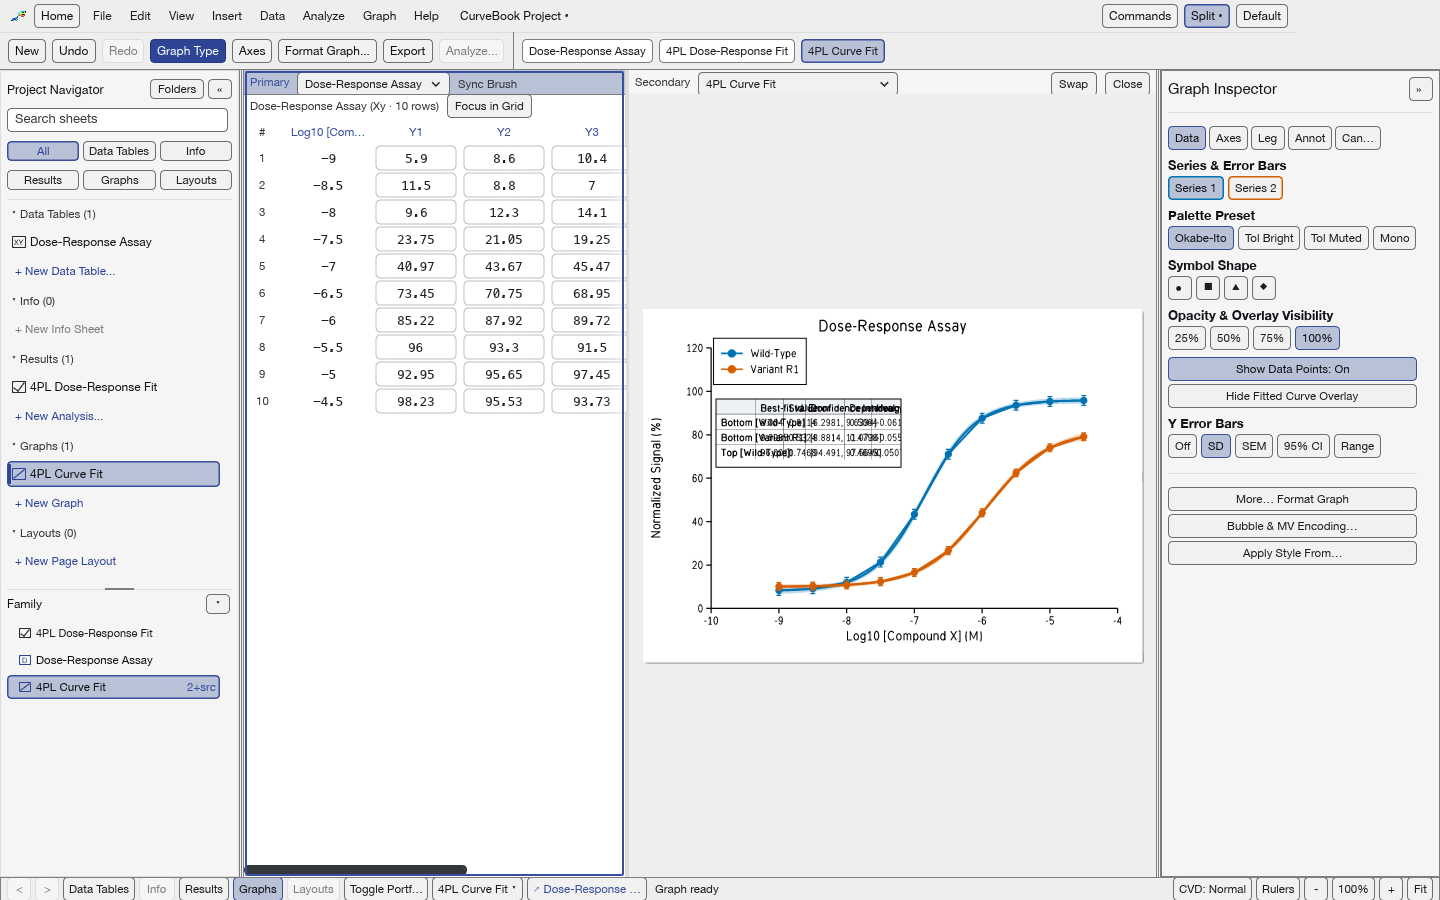
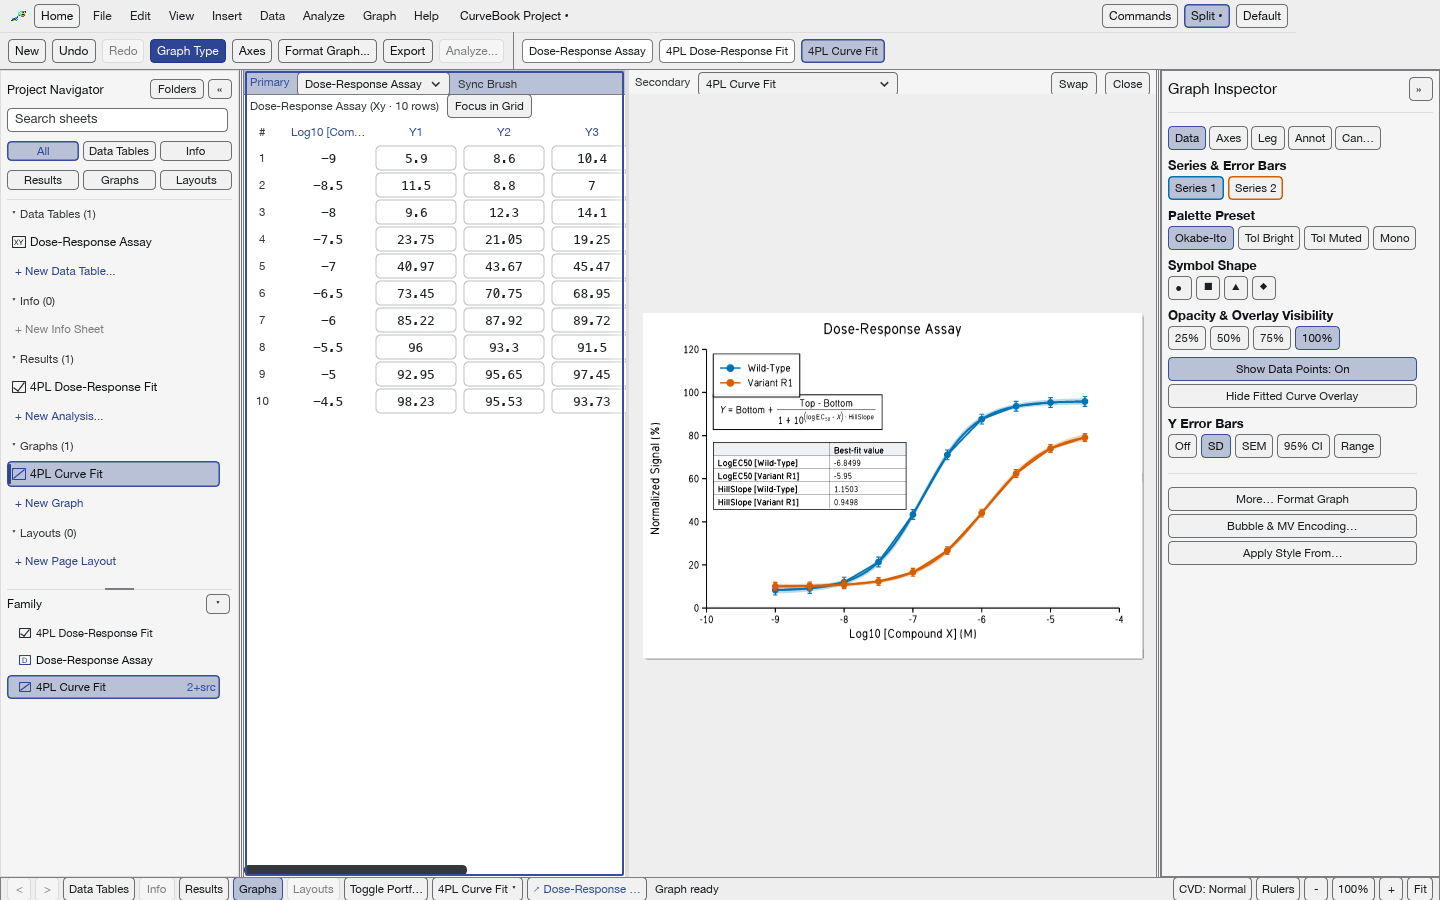
Fix split-fit table overlap and add ANOVA workspace screenshot

diff --git a/crates/ui-egui/examples/doc_screenshots.rs b/crates/ui-egui/examples/doc_screenshots.rs
@@ -4,10 +4,13 @@
 //! Clean-room deterministic workspace screenshot generator (`R0.14`).
 //!
 //! Renders `workspace-split-fit.png` (Light theme Split Workspace with XY dose-response
-//! data, 4PL nonlinear fit + 95% confidence band ribbon + SD error bars + embedded analysis
-//! result table) and `workspace-layout-dark.png` (Dark theme multi-panel `LayoutSheet`
-//! with linked panels `A` and `B`, physical millimeter rulers, visual scale bar, and
-//! page-layout inspector) into `<out_dir>`.
+//! data, 4PL nonlinear fit, 95% confidence band ribbon, SD error bars, live TeX model
+//! equation, and 2-column parameter slice), `workspace-layout-dark.png` (Dark theme
+//! multi-panel `LayoutSheet` with linked panels `A` and `B`, physical millimeter rulers,
+//! visual scale bar, and page-layout inspector), and `workspace-anova-results.png`
+//! (Light theme Split Workspace with multi-tab One-Way ANOVA `ResultSheet`, `QOL-7`
+//! diagnostic banner, and linked Column graph with Compact Letter Display and brackets)
+//! into `<out_dir>`.
 
 use std::error::Error;
 use std::fs;
@@ -32,6 +35,9 @@ fn main() -> Result<(), Box<dyn Error>> {
 
     let layout_png = build_layout_dark_png()?;
     write_png(&out_dir.join("workspace-layout-dark.png"), &layout_png)?;
+
+    let anova_png = build_anova_results_png()?;
+    write_png(&out_dir.join("workspace-anova-results.png"), &anova_png)?;
 
     let target = RenderTargetSpec { width_px: WIDTH_PX, height_px: HEIGHT_PX, dpi: DPI };
     for (mode, file_name) in [
@@ -125,7 +131,7 @@ fn style_dose_graph(app: &mut UiApp, graph_id: &str, result_id: &str, compact_fo
     let (canvas, legend_pos) = if compact_for_layout {
         (json!({ "width": 270.0, "height": 230.0 }), json!([62.0, 24.0]))
     } else {
-        (json!({ "width": 410.0, "height": 290.0 }), json!([58.0, 24.0]))
+        (json!({ "width": 440.0, "height": 304.0 }), json!([62.0, 36.0]))
     };
     app.execute_command(
         "graph.setSpec",
@@ -166,9 +172,30 @@ fn style_dose_graph(app: &mut UiApp, graph_id: &str, result_id: &str, compact_fo
             "graph.addAnnotation",
             json!({
                 "sheet_id": graph_id,
-                "kind": "embedded_result_table",
+                "kind": "model_equation",
                 "result_sheet_id": result_id,
-                "bounds_pt": [60.0, 74.0, 152.0, 56.0]
+                "data_set_index": 0,
+                "mode": "symbolic",
+                "bounds_pt": [62.0, 72.0, 0.0, 0.0],
+                "font_size_pt": 8.2,
+                "bordered": true
+            }),
+        )?;
+        app.execute_command(
+            "edit.pasteResultTable",
+            json!({
+                "source_sheet_id": result_id,
+                "target_sheet_id": graph_id,
+                "tab_id": "nonlinear_parameters",
+                "selected_rows": [4, 5, 6, 7],
+                "selected_cols": [0],
+                "bounds_pt": [62.0, 114.0, 170.0, 59.0],
+                "style": {
+                    "font_size_pt": 7.0,
+                    "bold_headers": true,
+                    "outer_border_width_pt": 0.75,
+                    "gridline_width_pt": 0.45
+                }
             }),
         )?;
     }
@@ -216,6 +243,119 @@ fn build_split_fit_png() -> Result<Vec<u8>, Box<dyn Error>> {
     app.split.primary_sheet_id = Some(SheetId::new("xy-dose"));
     app.split.secondary_sheet_id = Some(SheetId::new("g-dose"));
     app.canvas_dialogs.status_banner = Some(String::from("4PL Fit Ready | R2 = 0.996 | 95% CI Ribbon | SD Error Bars"));
+    app.sync_views();
+
+    Ok(render_png_bytes(&mut app)?)
+}
+
+fn build_synthetic_anova_sheet(id: &str) -> Result<DataSheet, Box<dyn Error>> {
+    // Clean-room synthetic treatment-response cohorts with heteroscedastic high-dose spread
+    // so Brown-Forsythe emits a real QOL-7 assumption warning alongside Tukey post-hoc groups.
+    let groups = [
+        ("Vehicle", [11.8_f64, 12.6, 11.2, 12.4, 13.0, 11.5]),
+        ("10 nM", [28.4, 30.8, 27.1, 29.5, 31.2, 28.0]),
+        ("100 nM", [61.2, 65.8, 59.4, 64.1, 66.5, 60.8]),
+        ("1 uM", [58.0, 86.4, 54.2, 88.9, 62.5, 81.0]),
+    ];
+    let mut table = ColumnTable::new(ColumnDesignHint::UnpairedReplicates, groups.len(), 6)?;
+    for (col, (label, vals)) in groups.iter().enumerate() {
+        let ds = table.data_sets.get_mut(col).ok_or("missing ANOVA dataset")?;
+        ds.title = String::from(*label);
+        for (row, &val) in vals.iter().enumerate() {
+            let cell = ds.cells.get_mut(row).and_then(|r| r.first_mut()).ok_or("missing ANOVA cell")?;
+            *cell = Cell::number(val);
+        }
+    }
+    Ok(DataSheet::new(SheetId::new(id), "Treatment Cohorts", TableArchetype::Column(table))?)
+}
+
+fn build_anova_results_png() -> Result<Vec<u8>, Box<dyn Error>> {
+    let mut doc = ProjectDocument::new("One-Way ANOVA & Post-Hoc Workspace")?;
+    doc.add_data_sheet(build_synthetic_anova_sheet("col-anova")?)?;
+
+    let mut app = UiApp::from_session(curvebook_engine::Session::from_document(doc));
+    app.set_theme_mode(UiThemeMode::Light);
+
+    app.execute_command(
+        "stats.run",
+        json!({
+            "sheet_id": "anova-oneway",
+            "source_sheet_id": "col-anova",
+            "kind": "one_way_anova",
+            "title": "One-Way ANOVA (Tukey)",
+            "multiplicity": "tukey",
+            "compute_effect_sizes": true
+        }),
+    )?;
+
+    app.execute_command(
+        "graph.create",
+        json!({
+            "sheet_id": "g-anova",
+            "data_sheet_id": "col-anova",
+            "kind": "column",
+            "title": "Treatment Response"
+        }),
+    )?;
+    app.execute_command(
+        "graph.setAxes",
+        json!({
+            "sheet_id": "g-anova",
+            "frame_preset": "open_l",
+            "x_axis": { "title": "Treatment Group" },
+            "y_axis": { "title": "Activation (%)", "min": 0.0, "max": 125.0, "major_tick_interval": 25.0 }
+        }),
+    )?;
+    app.execute_command(
+        "graph.setSpec",
+        json!({
+            "sheet_id": "g-anova",
+            "spec": {
+                "title": "Activation",
+                "canvas_size_pt": { "width": 336.0, "height": 296.0 },
+                "legend": { "visible": false }
+            }
+        }),
+    )?;
+    app.execute_command(
+        "graph.addComparisonBrackets",
+        json!({
+            "sheet_id": "g-anova",
+            "result_sheet_id": "anova-oneway",
+            "significant_only": true,
+            "style": "square",
+            "label_mode": "stars",
+            "font_size_pt": 8.0,
+            "bracket_step_pt": 15.0
+        }),
+    )?;
+    app.execute_command(
+        "graph.setCompactLetterDisplay",
+        json!({
+            "sheet_id": "g-anova",
+            "result_sheet_id": "anova-oneway",
+            "enabled": true,
+            "pairwise_display_mode": "brackets_and_compact_letter_display",
+            "font_size_pt": 9.0,
+            "offset_pt": 5.0
+        }),
+    )?;
+
+    let anova_id = SheetId::new("anova-oneway");
+    app.execute_command("sheet.select", json!({ "sheet_id": "anova-oneway" }))?;
+    let doc_snap = app.document().clone();
+    app.canvas_dialogs.on_sheet_selected(&doc_snap, &anova_id);
+    let posthoc_idx = doc_snap.result_sheet(&anova_id).and_then(|rs| rs.tabs.iter().position(|t| t.id == "multiple-comparisons")).unwrap_or(0);
+    app.canvas_dialogs.result_view.active_tab_index = posthoc_idx;
+
+    app.nav.navigator_open = true;
+    app.nav.inspector_open = true;
+    app.family_open = true;
+    app.split.enabled = true;
+    app.split.set_ratio(0.62);
+    app.split.primary_sheet_id = Some(anova_id);
+    app.split.secondary_sheet_id = Some(SheetId::new("g-anova"));
+    app.canvas_dialogs.status_banner = Some(String::from("One-Way ANOVA | Tukey Post-Hoc | CLD & Brackets | QOL-7 Diagnostics"));
     app.sync_views();
 
     Ok(render_png_bytes(&mut app)?)

diff --git a/xtask/src/screenshots.rs b/xtask/src/screenshots.rs
@@ -1,8 +1,7 @@
 //! Deterministic workspace screenshot generation and offline PNG integrity check (`R0.14`).
 //!
 //! `cargo xtask screenshots` invokes the clean-room `curvebook-ui-egui` `doc_screenshots`
-//! example to regenerate `docs/images/workspace-split-fit.png` and
-//! `docs/images/workspace-layout-dark.png`.
+//! example to regenerate `docs/images/workspace-*.png` and `docs/images/specimen-*.png`.
 //! `cargo xtask screenshots --check` runs purely in-process (no nested Cargo build) and verifies:
 //! - both PNG files exist and start with the 8-byte PNG signature,
 //! - the leading `IHDR` chunk decodes to exact `1440x900` (`>= 1280x800`) RGBA output,
@@ -29,6 +28,7 @@ const MIN_IDAT_BYTES: usize = 1024;
 pub const SCREENSHOT_REL_PATHS: &[&str] = &[
     "docs/images/workspace-split-fit.png",
     "docs/images/workspace-layout-dark.png",
+    "docs/images/workspace-anova-results.png",
     "docs/images/specimen-light.png",
     "docs/images/specimen-dark.png",
     "docs/images/specimen-high-contrast.png",

diff --git a/ASSETS.md b/ASSETS.md
@@ -46,8 +46,9 @@ Generated-in-code art (scientific colour palettes, marker glyphs, error-bar caps
 | `assets/app-icon/store/tile-150x150.png` | CurveBook contributors | Resized from `assets/app-icon/source/approved-seven-pane.png` by packaging/store-art.sh | MIT OR Apache-2.0 (`assets/app-icon/LICENSE.txt`) | Microsoft Store display logo; transparent 150x150 |
 | `assets/app-icon/store/tile-71x71.png` | CurveBook contributors | Resized from `assets/app-icon/source/approved-seven-pane.png` by packaging/store-art.sh | MIT OR Apache-2.0 (`assets/app-icon/LICENSE.txt`) | Microsoft Store display logo; transparent 71x71 |
 | `docs/images/curvebook.png` | CurveBook contributors | Exact copy of `assets/app-icon/slack/curvebook.png`, resized originally from `assets/app-icon/source/seven-pane-win95-1254.png` | MIT OR Apache-2.0 (`assets/app-icon/LICENSE.txt`) | Original seven-pane icon reused for the GitHub Pages wordmark and favicon; 128x128 transparent PNG |
-| `docs/images/workspace-split-fit.png` | CurveBook contributors | Deterministic workspace screenshot generated by cargo xtask screenshots | MIT OR Apache-2.0 | Light theme egui desktop Split Workspace (dose-response XY table, 4PL curve fit with CI bands and SD error bars, embedded analysis result summary, Project Navigator, Family tree, Graph Inspector) |
+| `docs/images/workspace-split-fit.png` | CurveBook contributors | Deterministic workspace screenshot generated by cargo xtask screenshots | MIT OR Apache-2.0 | Light theme egui desktop Split Workspace (dose-response XY table, 4PL curve fit with CI bands and SD error bars, live TeX model equation and 2-column parameter slice, Project Navigator, Family tree, Graph Inspector) |
 | `docs/images/workspace-layout-dark.png` | CurveBook contributors | Deterministic workspace screenshot generated by cargo xtask screenshots | MIT OR Apache-2.0 | Dark theme egui desktop multi-panel publication LayoutSheet (linked graphs A & B with significance brackets, embedded summary table, physical mm rulers, scale bar, Page Layout Composer) |
+| `docs/images/workspace-anova-results.png` | CurveBook contributors | Deterministic workspace screenshot generated by cargo xtask screenshots | MIT OR Apache-2.0 | Light theme egui desktop Split Workspace (multi-tab One-Way ANOVA ResultSheet with Tukey multiple comparisons and QOL-7 assumption diagnostics banner, linked Column graph with Compact Letter Display and significance brackets, Results Interpret inspector) |
 | `docs/images/specimen-light.png` | CurveBook contributors | Deterministic workspace screenshot generated by cargo xtask screenshots | MIT OR Apache-2.0 | Light theme design-language & hierarchy specimen (OKLab/OKLCH tokens, ranked toolbar strip, buttons, fields, dropdown, toggles, tabs, badges, tabular preview, dialog card) |
 | `docs/images/specimen-dark.png` | CurveBook contributors | Deterministic workspace screenshot generated by cargo xtask screenshots | MIT OR Apache-2.0 | Dark theme design-language & hierarchy specimen (OKLab/OKLCH tokens, ranked toolbar strip, buttons, fields, dropdown, toggles, tabs, badges, tabular preview, dialog card) |
 | `docs/images/specimen-high-contrast.png` | CurveBook contributors | Deterministic workspace screenshot generated by cargo xtask screenshots | MIT OR Apache-2.0 | High-contrast AAA design-language & hierarchy specimen (OKLab/OKLCH tokens, ranked toolbar strip, buttons, fields, dropdown, toggles, tabs, badges, tabular preview, dialog card) |
